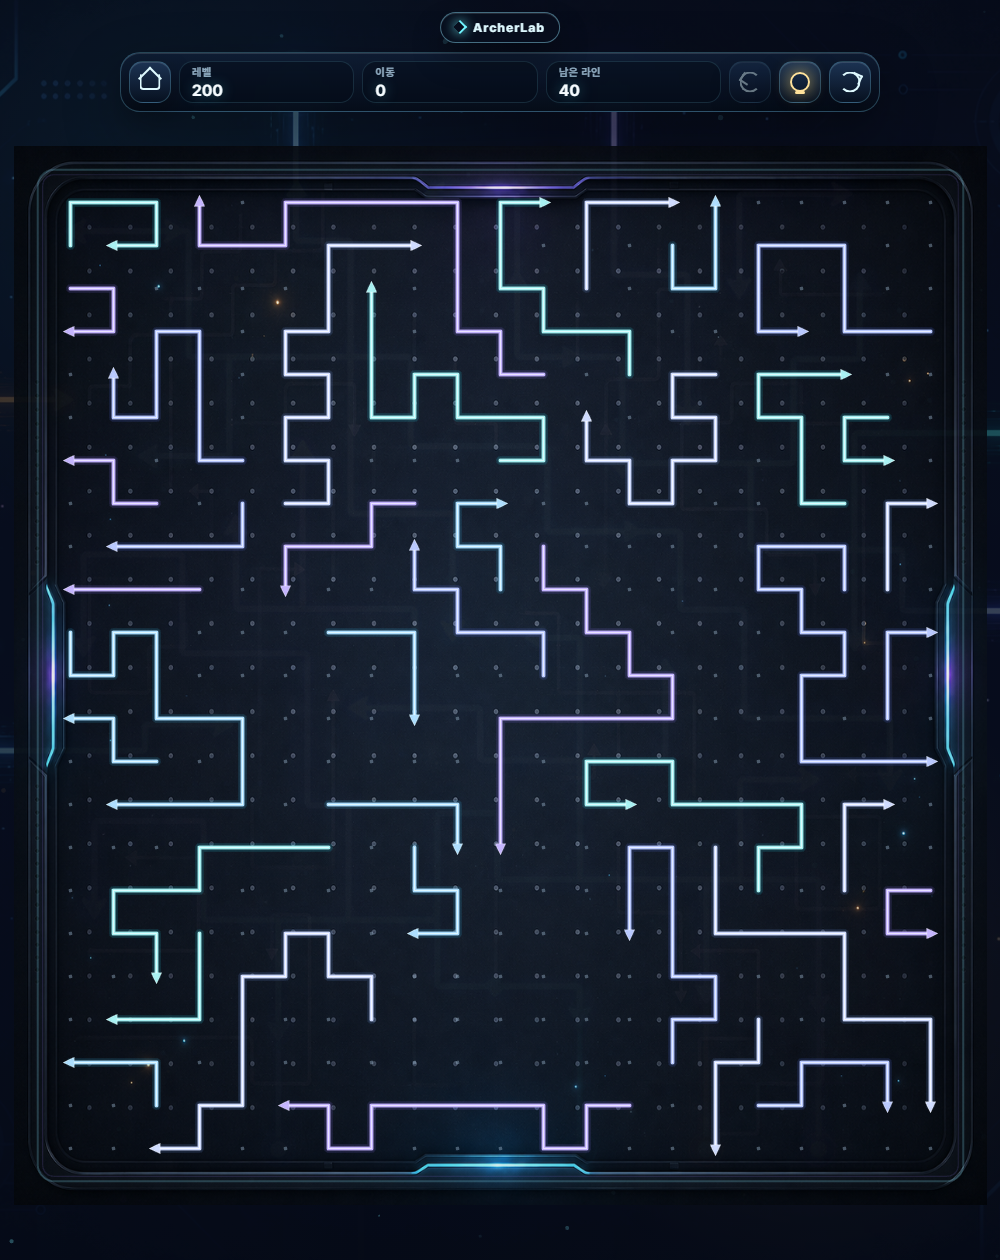
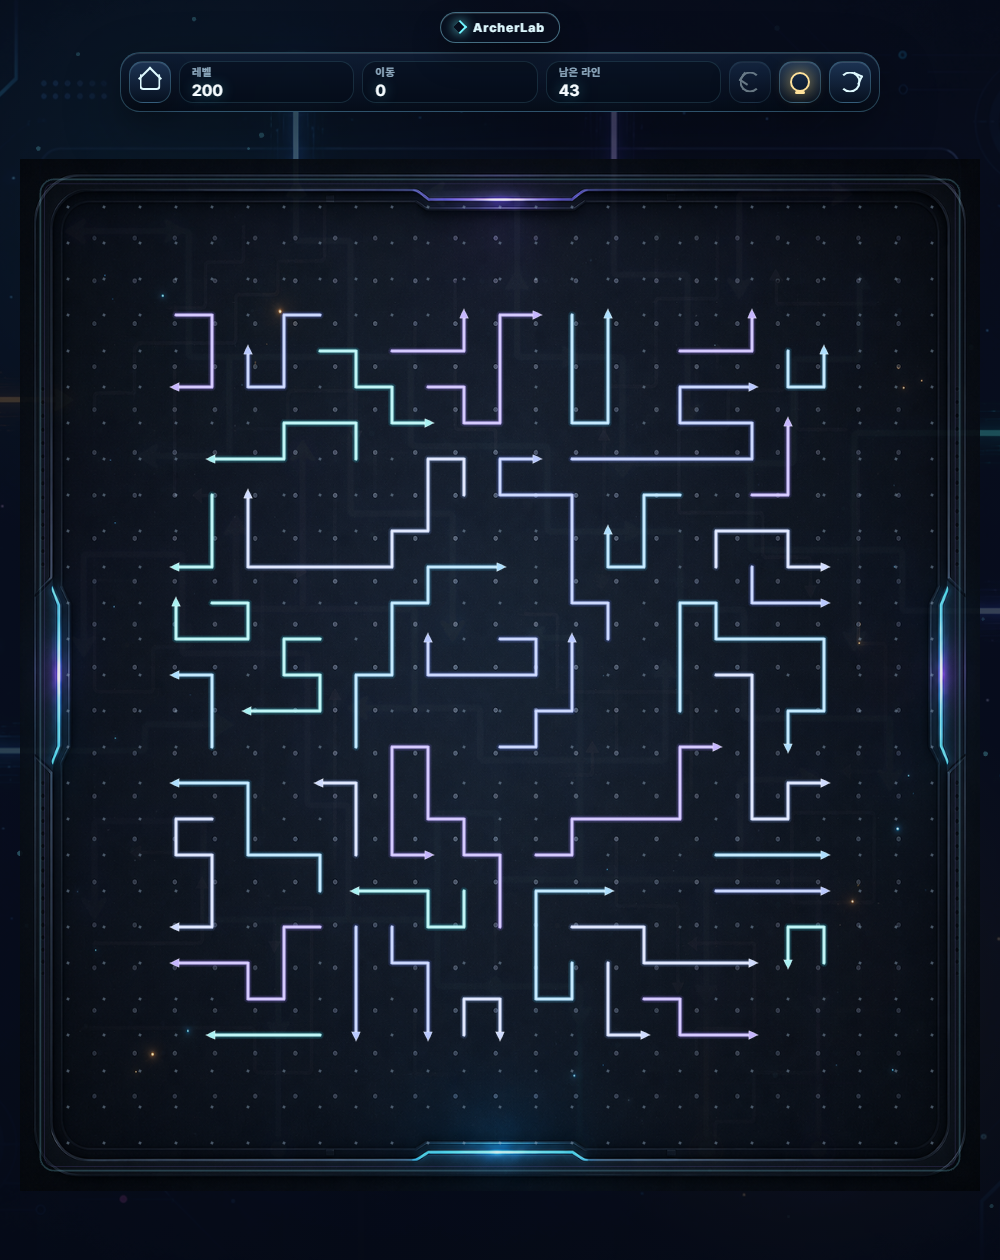
Tighten arrows puzzle weave density

Changed region(s): [[0.031, 0.0929, 0.992, 0.9595]]

diff --git a/arrows/js/main.js b/arrows/js/main.js
@@ -362,7 +362,7 @@
       const side = width < 620 ? 18 : 44;
       const availableW = width - side * 2;
       const availableH = height - topSafe - bottomSafe;
-      const minCell = width < 620 ? 16 : 22;
+      const minCell = width < 620 ? 12 : 22;
       this.cell = Math.max(minCell, Math.floor(Math.min(availableW / this.gridW, availableH / this.gridH)));
       this.boardW = this.cell * this.gridW;
       this.boardH = this.cell * this.gridH;
@@ -429,7 +429,7 @@
       container.pieceId = piece.id;
       piece.container = container;
 
-      container.hitArea = new PathHitArea(piece.cells, this.cell, Math.max(7, this.cell * 0.17));
+      container.hitArea = new PathHitArea(piece.cells, this.cell, Math.max(5, this.cell * 0.18));
 
       const glow = new PIXI.Graphics();
       drawPath(glow, piece.cells, this.cell, color.glow, Math.max(5, this.cell * 0.2), 0.15);
@@ -795,24 +795,30 @@
     const tunedLevel = Math.min(rawLevel, DIFFICULTY_CAP_LEVEL);
     const progress = DIFFICULTY_CAP_LEVEL <= 1 ? 1 : clamp((tunedLevel - 1) / (DIFFICULTY_CAP_LEVEL - 1), 0, 1);
     const curve = Math.pow(progress, 0.74);
-    const gridW = Math.min(21, 9 + Math.floor(progress * 12));
-    const gridH = Math.min(23, 11 + Math.floor(progress * 12));
-    const fillRatio = 0.47 + curve * 0.2;
+    const gridW = Math.min(25, 9 + Math.floor(progress * 16));
+    const gridH = Math.min(27, 11 + Math.floor(progress * 16));
+    const clusterInsetX = Math.round(curve * 3);
+    const clusterInsetY = Math.round(curve * 3);
+    const activeW = gridW - clusterInsetX * 2;
+    const activeH = gridH - clusterInsetY * 2;
+    const fillRatio = 0.47 + curve * 0.26;
     const maxLength = Math.min(16, Math.round(5 + progress * 4 + curve * 7));
 
     return {
       gridW,
       gridH,
-      target: Math.min(68, Math.round(13 + progress * 36 + curve * 21)),
-      targetCells: Math.round(gridW * gridH * fillRatio),
+      target: Math.min(74, Math.round(13 + progress * 40 + curve * 23)),
+      targetCells: Math.round(activeW * activeH * fillRatio),
       targetSlack: Math.floor(maxLength * curve * 0.72),
+      clusterInsetX,
+      clusterInsetY,
       minLength: progress < 0.48 ? 2 : progress < 0.78 ? 3 : 4,
       maxLength,
       turnBias: 0.42 + curve * 0.36,
-      attemptsPerPiece: 380 + Math.floor(curve * 130),
-      minFillCompletion: 0.9,
-      stallLimit: 720 + Math.floor(curve * 460),
-      placementTries: 19 + Math.floor(progress * 8 + curve * 11),
+      attemptsPerPiece: 190 + Math.floor(curve * 70),
+      minFillCompletion: 0.86,
+      stallLimit: 360 + Math.floor(curve * 260),
+      placementTries: 15 + Math.floor(progress * 5 + curve * 6),
       clusterBias: 0.86 + curve * 0.11,
       centerBias: 0.44 + curve * 0.2,
       weaveBias: 1.1 + curve * 1.45,
@@ -820,20 +826,23 @@
   }
 
   function chooseShapeOrigin(shape, bounds, pieces, gridW, gridH, rng, config) {
-    const maxX = gridW - bounds.w;
-    const maxY = gridH - bounds.h;
+    const placement = getPlacementBounds(bounds, gridW, gridH, config);
+    const minX = placement.minX;
+    const minY = placement.minY;
+    const maxX = placement.maxX;
+    const maxY = placement.maxY;
     if (!pieces.length || !rng.chance(config.clusterBias)) {
-      const centerX = Math.round((gridW - bounds.w) / 2);
-      const centerY = Math.round((gridH - bounds.h) / 2);
+      const centerX = Math.round((minX + maxX) / 2);
+      const centerY = Math.round((minY + maxY) / 2);
       if (rng.chance(config.centerBias)) {
         return {
-          x: clamp(centerX + rng.int(-3, 3), 0, maxX),
-          y: clamp(centerY + rng.int(-3, 3), 0, maxY),
+          x: clamp(centerX + rng.int(-2, 2), minX, maxX),
+          y: clamp(centerY + rng.int(-2, 2), minY, maxY),
         };
       }
       return {
-        x: rng.int(0, maxX),
-        y: rng.int(0, maxY),
+        x: rng.int(minX, maxX),
+        y: rng.int(minY, maxY),
       };
     }
 
@@ -851,9 +860,19 @@
       { x: 0, y: 0 },
     ]);
     return {
-      x: clamp(anchor.x + offset.x - source.x, 0, maxX),
-      y: clamp(anchor.y + offset.y - source.y, 0, maxY),
+      x: clamp(anchor.x + offset.x - source.x, minX, maxX),
+      y: clamp(anchor.y + offset.y - source.y, minY, maxY),
     };
+  }
+
+  function getPlacementBounds(bounds, gridW, gridH, config) {
+    const insetX = Math.min(config.clusterInsetX || 0, Math.floor((gridW - bounds.w) / 2));
+    const insetY = Math.min(config.clusterInsetY || 0, Math.floor((gridH - bounds.h) / 2));
+    const minX = Math.max(0, insetX);
+    const minY = Math.max(0, insetY);
+    const maxX = Math.max(minX, gridW - bounds.w - insetX);
+    const maxY = Math.max(minY, gridH - bounds.h - insetY);
+    return { minX, minY, maxX, maxY };
   }
 
   function scorePlacement(cells, pieces, gridW, gridH, config) {